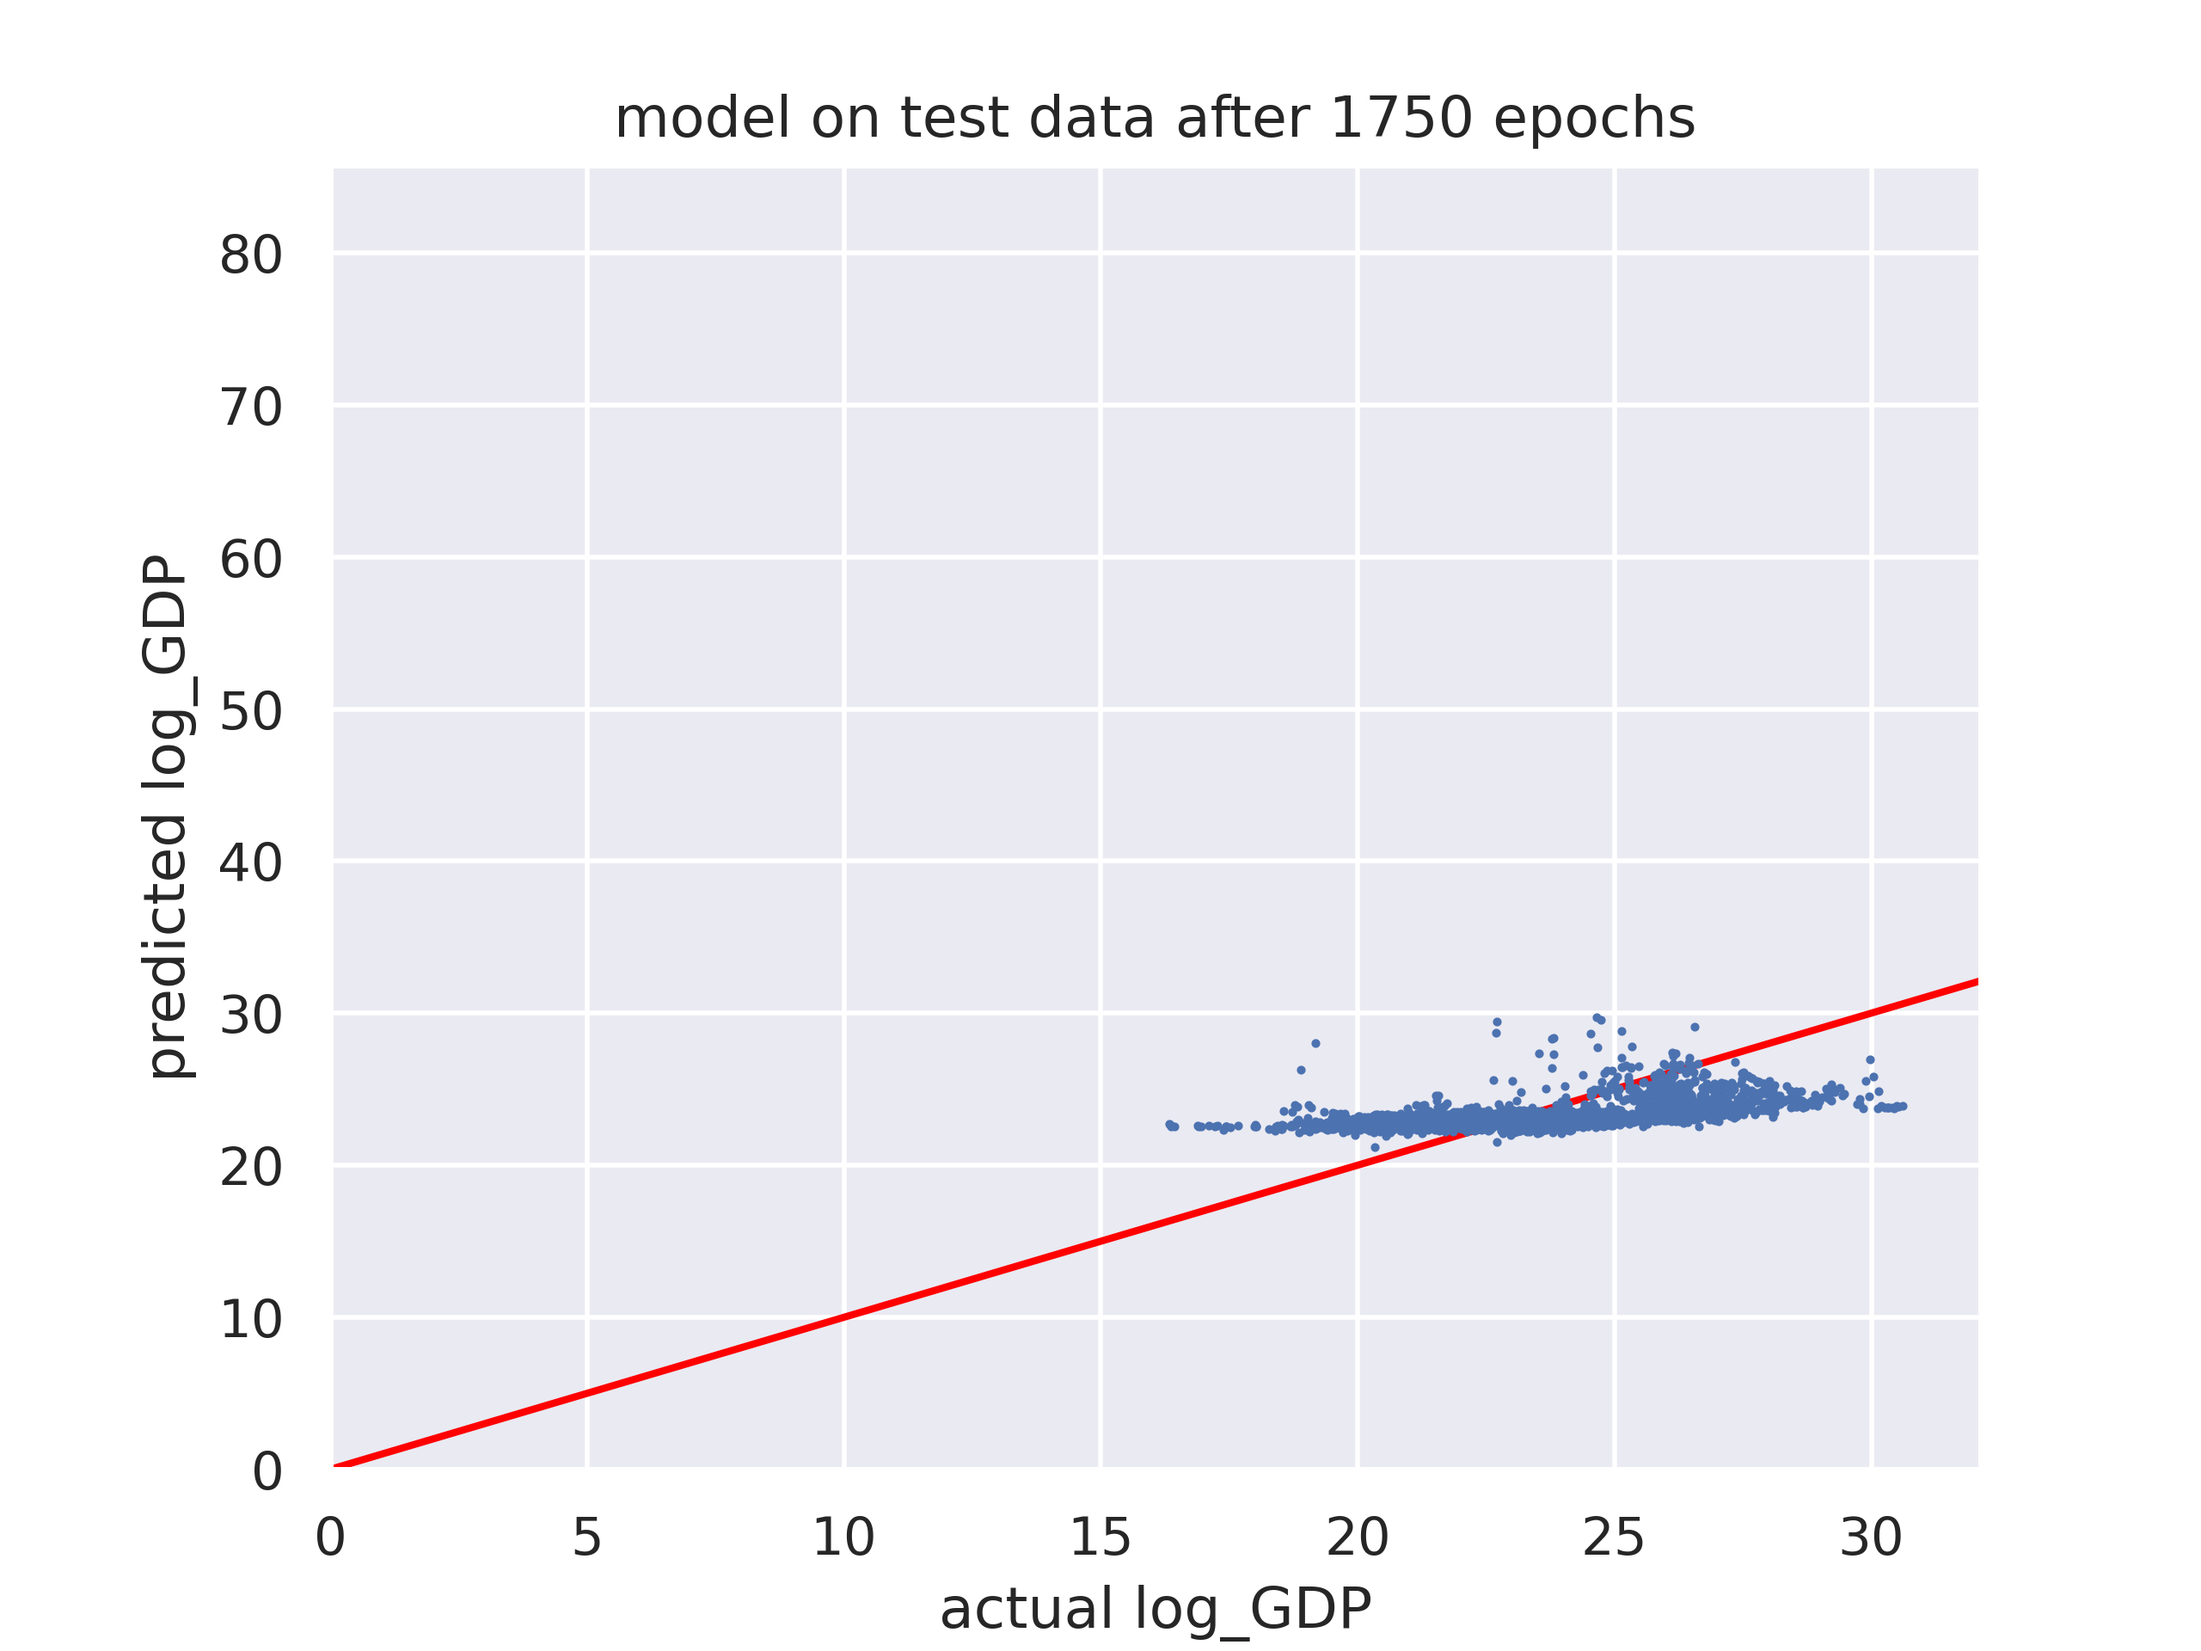
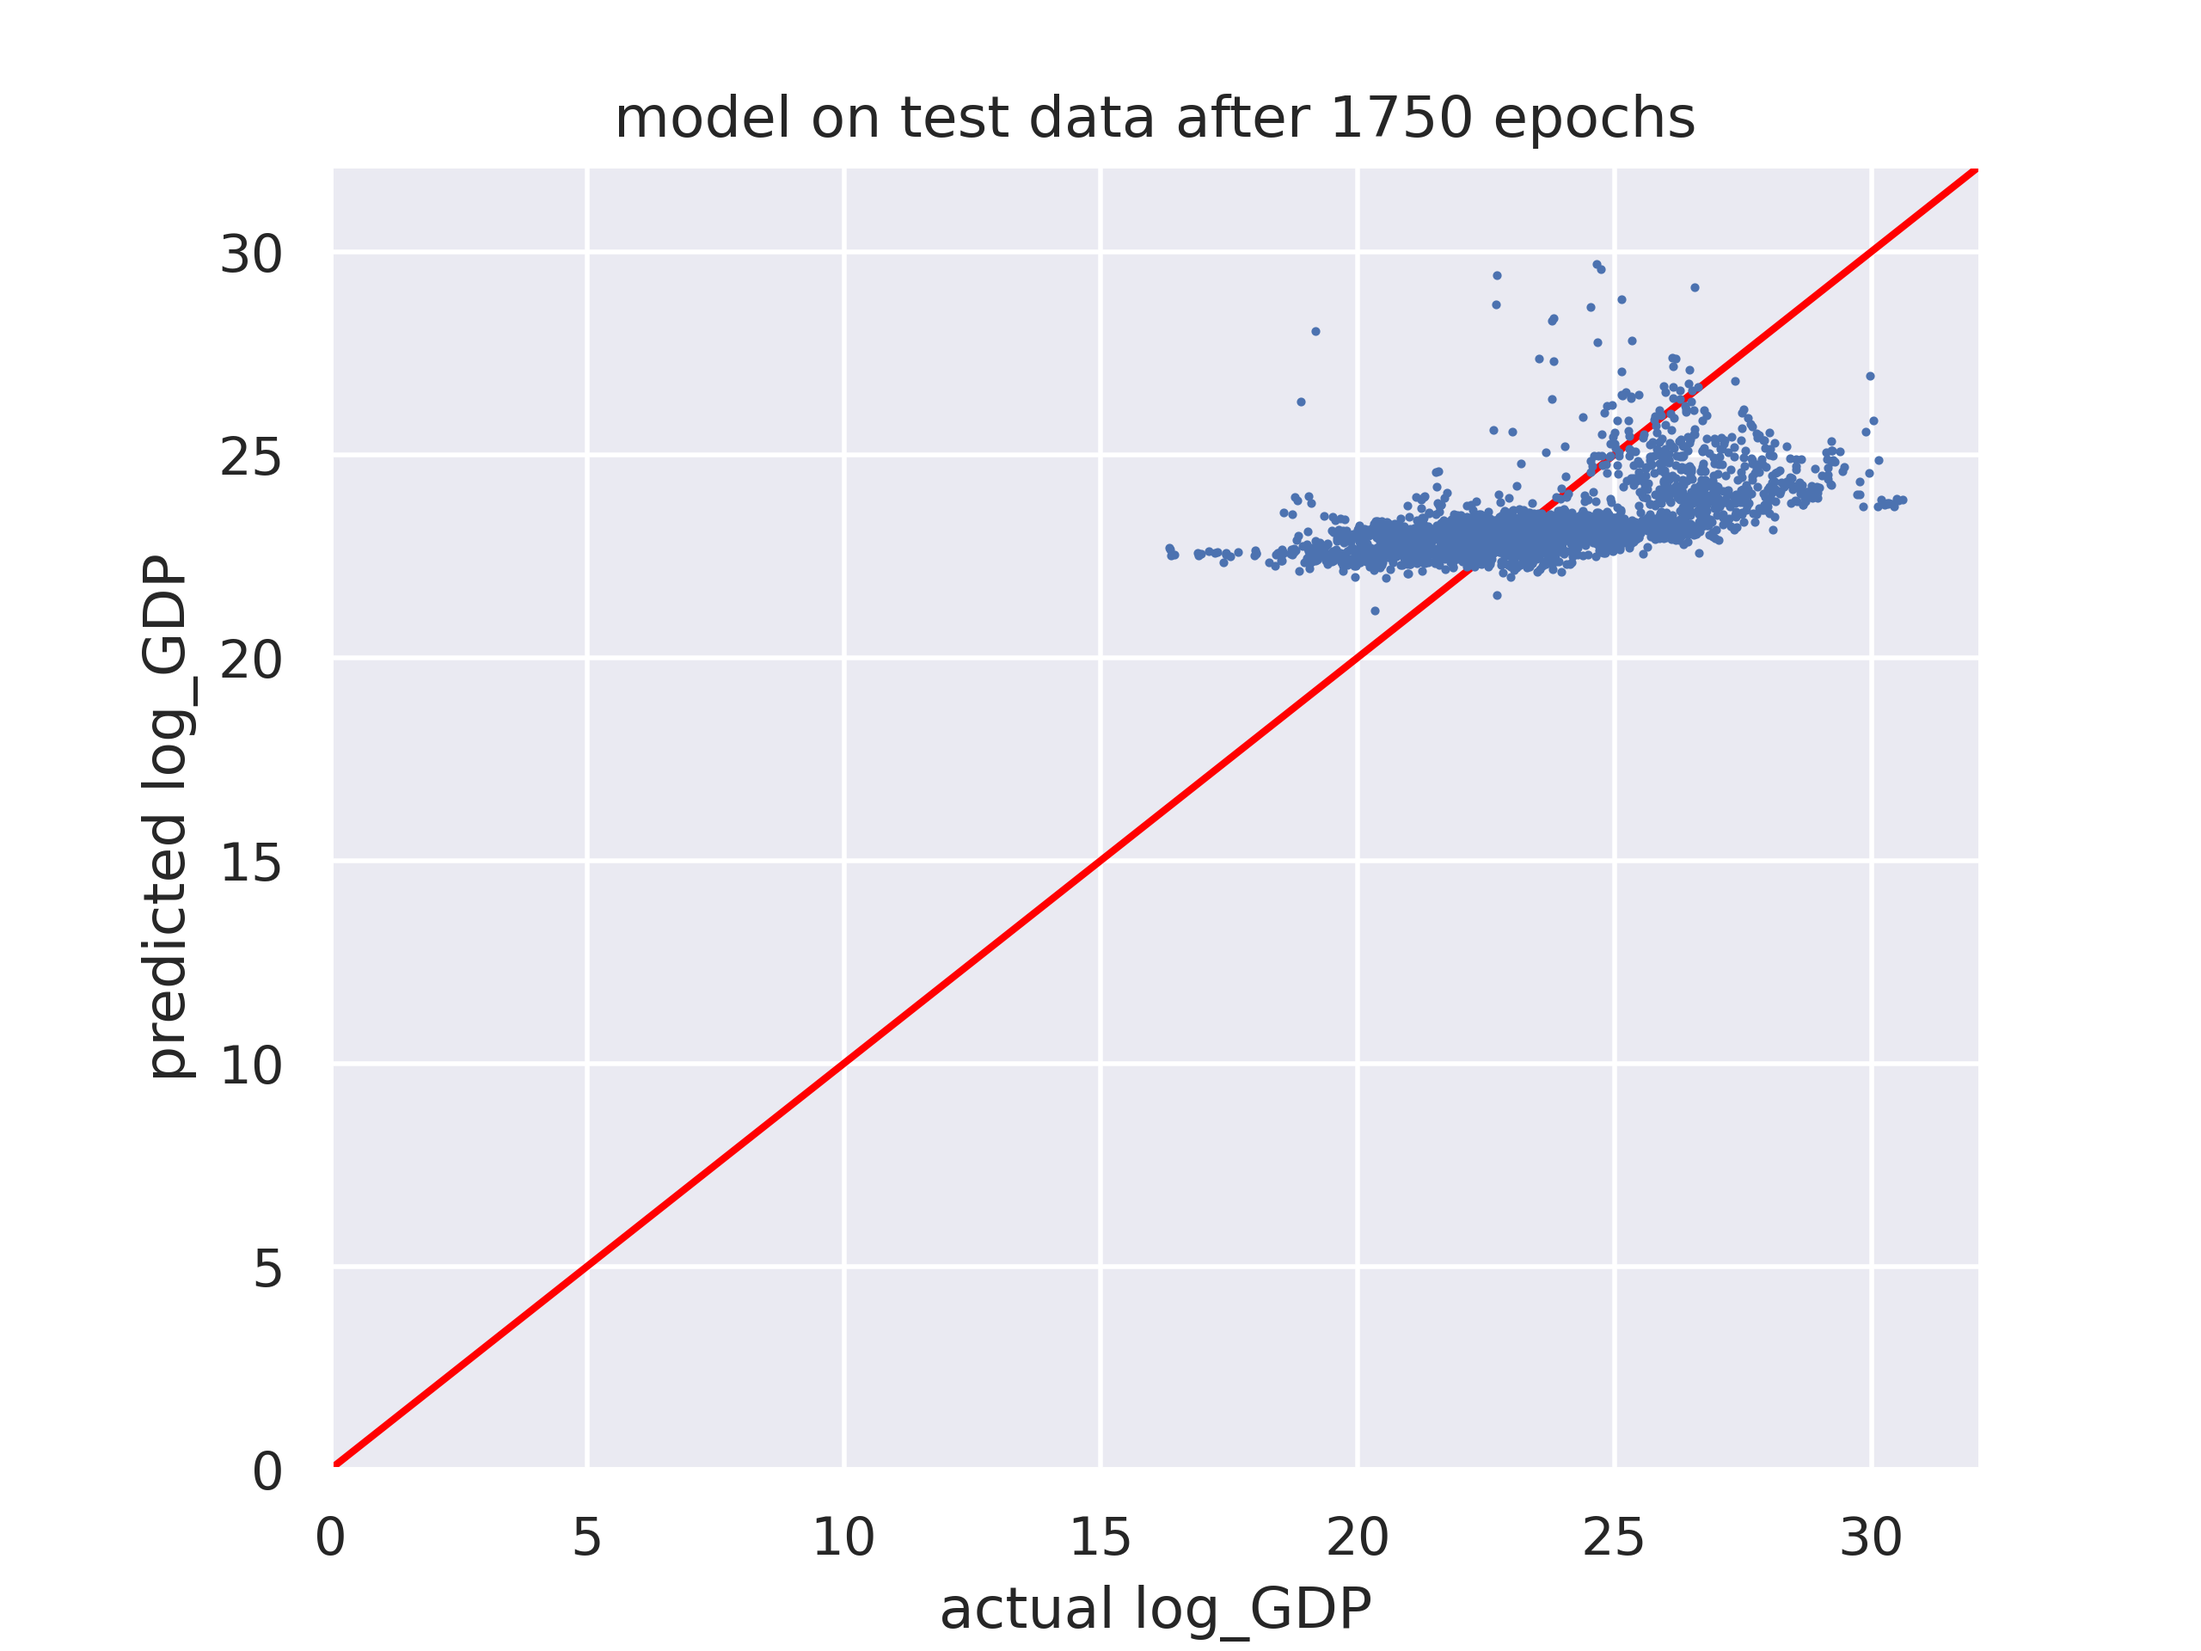
make prediction plots square

diff --git a/plot.py b/plot.py
@@ -23,20 +23,23 @@ def loss_plot(model_type):
     plt.savefig(f'plots/{model_type}_loss.png', dpi=400)
     plt.close(plt.gcf())
 
-def pred_plot(preds_df, title, out_file, max_x, max_y):
+def pred_plot(preds_df, title, out_file, max_x, max_y, square=True):
     '''
     Given a DataFrame that has ground truth and predicted values, plot a scatter
     of true vs. predicted values. Force scaling via max_x and max_y s.t. we have
     a series of plots with the same axes. Also plot line showing a hypothetical perfect
     model's prediction.
     '''
-    print(f"Making rediction plot at {out_file}...", end='')
+    print(f"Making prediction plot at {out_file}...", end='')
     plt.yscale('linear') # re-set to linear axis (data is already log-ed)
     plt.plot([0, max_x], [0, max_x], color='red', zorder=1) # place behind points
     plt.scatter(preds_df['ground_truth'], preds_df['prediction'], s=.7, zorder=2) # place in front of line
     plt.subplots_adjust(left=0.15, top=0.9) # prevent x-label and title from getting cut off
     plt.xlabel('actual log_GDP')
     plt.ylabel('predicted log_GDP') # label axes
+    if square:
+        max_x = max(max_x, max_y)
+        max_y = max_x
     plt.xlim((0, max_x))
     plt.ylim((0, max_y))
     plt.title(title)
@@ -60,17 +63,17 @@ def compare_baseline_to_model():
 compare_baseline_to_model()
 for model_type in ['baseline', 'model']:
     epoch_range = range(0, hyperparams['n_epochs'] + 1, hyperparams['save_model_interval'])
-
     # read in all the prediction files
-    dfs = [(e, pd.read_csv(preds_file(model_type, e), index_col=0)) for e in epoch_range]
+    for e in epoch_range:
+        if e == 1500:
+            continue  # accidentally deleted this one and don't want to run model again 
+        print(e)
+        df = pd.read_csv(preds_file(model_type, e), index_col=0)
+        max_y = df[['prediction']].max().values.max()
+        max_x = df[['ground_truth']].max().values.max() 
 
-    # get limits such that every model's predictions < max_y and every model's ground_truth < max_x
-    max_y = max([df[['prediction']].max().values.max() for _, df in dfs])
-    max_x = max([df[['ground_truth']].max().values.max() for _, df in dfs])
-
-    # give some breathing room so that axes don't cut off points
-    max_y *= 1.05
-    max_x *= 1.05
-    for e, df in dfs:
+        # give some breathing room so that axes don't cut off points
+        max_y *= 1.05
+        max_x *= 1.05
         pred_plot(df, f"{model_type} on test data after {e} epochs", preds_plot_file(model_type, e), max_x, max_y)
     loss_plot(model_type)
